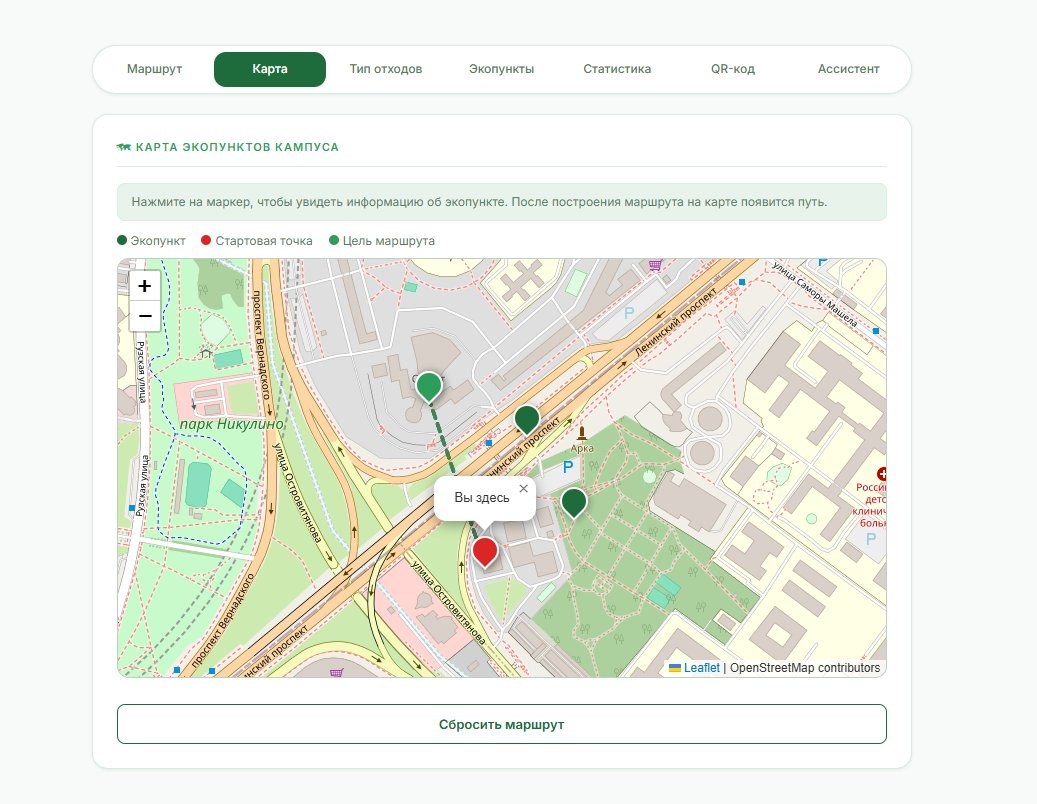
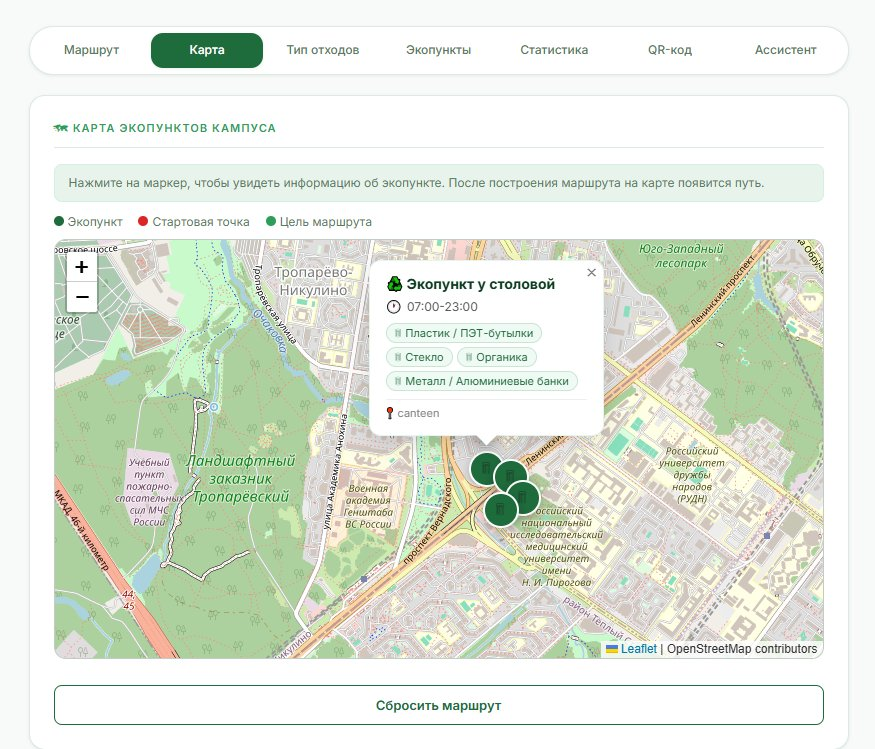
docs: обновлены скриншоты - CO₂, регрессия, попапы карты

diff --git a/README.md b/README.md
@@ -19,13 +19,13 @@
 |:---:|:---:|
 | ![Главная](docs/screenshots/01_main.png) | ![Маршрут](docs/screenshots/02_route.png) |
 
-| Карта экопунктов | Аналитика и графики |
+| Карта экопунктов | Аналитика и CO₂ |
 |:---:|:---:|
 | ![Карта](docs/screenshots/03_map_zoom.png) | ![Статистика](docs/screenshots/05_stats.png) |
 
-| Эко-ассистент YandexGPT |
-|:---:|
-| ![Ассистент](docs/screenshots/06_assistant.png) |
+| Прогноз загруженности (ML) | Эко-ассистент YandexGPT |
+|:---:|:---:|
+| ![Регрессия](docs/screenshots/05b_predict.png) | ![Ассистент](docs/screenshots/06_assistant.png) |
 
 ## Проблема
 
